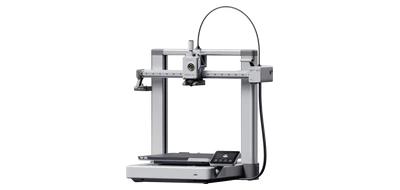
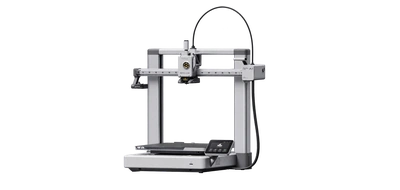
Fix enclosed background transparency in Bambu A1 artwork (#164)

Changed region(s): [[0.3, 0.0263, 0.69, 0.9737]]

diff --git a/docs/CONTROLLER_VISUAL_STYLE_GUIDE.md b/docs/CONTROLLER_VISUAL_STYLE_GUIDE.md
@@ -249,7 +249,7 @@ A standard table has **white uppercase bold headings** (`.68rem`, 800, `.04em` t
 
 **Analytics cards:** five period-filtered KPIs—job total, completed, failed, run time, and **Filament used** (recorded completed-print weight in kg). The heading and value share a vertically stacked, left-aligned **text column beside the icon**. Reflow five to three to two to one card per row as needed, allowing long headings to wrap inside their text column without truncation. The **Failed** KPI always uses a red outlined cross, including at zero failures; a favourable failure trend may still use green text, but the metric identity icon must never turn into a green check. The **Total filament used** KPI uses a dedicated 24px outline **`scale`** icon (weighing scale with top platform and dial), rendered at 27px inside a decorative purple ring; avoid spool imagery or artificial percentage progress; show `—` when completed jobs exist but no usage weight was recorded, rather than inventing zero usage. The five icon/ring identity accents are **Total print jobs blue** (`#328de2`), **Completed green** (`#20b37b`), **Failed red** (`#ef515d`), **Total run time orange** (`#d28a58`) and **Total filament used purple** (`#ab85d7`), using deeper orange `#a75b22` and purple `#8250b4` in light mode. Orange/purple identify the metric, **not** warning or performance sentiment. The matching colour also tints the decorative neutral ring and short accent; do not recolour the numeric value or previous-period arrows to match the icon. Completion and failure rings reflect real report rates; other measures use neutral/accent rings. **All five previous-period comparisons use the same directional colours:** a green **▲** and percentage for any increase and a red **▼** and percentage for any decrease, including the Failed metric; colours mean *more/less*, never *better/worse*. Zero change (`— 0.0%`) and unavailable comparisons stay muted. Compare adjacent equal-duration, same-filter periods; missing prior history displays **No previous period data**, and a prior zero baseline displays **From 0**, never an invented percentage.
 
-**Bambu A1 parity:** Use the shared Bambu Printer Details shell and all six tabs, toolhead table, AMS slot rows and external-spool controls in both Preact and fallback. Filament types and canonical colour-family choices match the other supported Bambu printers; use the same blue Set filament button and shared idle/RFID/unknown-tag disabled states. A1 uses AMS Lite help text and no chamber controls. Bundle accurate model artwork locally rather than using an A1 Mini image.
+**Bambu A1 parity:** Use the shared Bambu Printer Details shell and all six tabs, toolhead table, AMS slot rows and external-spool controls in both Preact and fallback. Filament types and canonical colour-family choices match the other supported Bambu printers; use the same blue Set filament button and shared idle/RFID/unknown-tag disabled states. A1 uses AMS Lite help text and no chamber controls. Bundle accurate model artwork locally rather than using an A1 Mini image. Background transparency must include enclosed openings inside the frame and filament-tube loop, with clean edges on both dark and light card backgrounds.
 
 **Printer tiles:** consistent headers, status pills, maintenance and reorder controls, static local model images, circular filament colour swatches overlaid only on the image area, then job progress, 2×2 metric cards (nozzle, bed, layer, remaining), connection/latency, Open printer. Printer images use `object-fit:contain`, bottom breathing room and a dedicated slot; **subgrid aligns images across one fleet row** despite wrapped names. Crucially, outer fleet rows have no inherited *internal* gaps between hidden status-strip subgrid tracks; separate whole cards with appropriate margins. Never crop the printer model just to fill the tile. Card view stays separate from dense Dashboard table view. Offline printers retain a visible reason below the Open printer button.
 

diff --git a/docs/BAMBU_A1.md b/docs/BAMBU_A1.md
@@ -20,4 +20,4 @@ Before unattended physical use, verify LAN/Developer-mode access, status and rec
 
 ## Bundled model artwork
 
-The dashboard's `public/assets/printers/a1.webp` is a resized product-identification image from Bambu's [A1 product page](https://uk.store.bambulab.com/products/a1), using the [manufacturer-hosted source image](https://store.bblcdn.eu/f1da182f80474db1b1573dc7c8651454.png). Bambu Lab retains its product artwork and trademarks. The image is bundled locally and does not require browser requests to the manufacturer.
+The dashboard's `public/assets/printers/a1.webp` is a transparent product-identification cutout, resized to the shared 400×190 canvas, from Bambu's [A1 product page](https://uk.store.bambulab.com/products/a1), using the [manufacturer-hosted source image](https://store.bblcdn.eu/f1da182f80474db1b1573dc7c8651454.png). Bambu Lab retains its product artwork and trademarks. The image is bundled locally and does not require browser requests to the manufacturer.

diff --git a/README.md b/README.md
@@ -1,4 +1,4 @@
-# Print Farm Controller v0.62.1
+# Print Farm Controller v0.62.2
 A local-first 3D printer fleet controller. It runs entirely on your LAN and currently supports:
 
 - **FlashForge Adventurer 5M / 5M Pro** through the local FlashForge HTTP/TCP APIs.
@@ -7,7 +7,7 @@ A local-first 3D printer fleet controller. It runs entirely on your LAN and curr
 - **Prusa CORE One+ (experimental)** through the local PrusaLink API, supporting Standard (1-tool), INDX4 and INDX8 configurations.
 - **Bambu Lab P1P / P1S / X1C / A1 / A1 Mini (experimental)** through the local MQTT TLS and FTPS TLS interfaces. P1P/P1S/A1/A1 Mini use the TLS/JPEG camera path; X1C camera uses the bundled FFmpeg decoder; see [X1C camera setup](docs/X1C_CAMERA.md).
 
-**Current development version: v0.62.1**
+**Current development version: v0.62.2**
 
 ## Key capabilities
 

diff --git a/PROJECT_CONTEXT.md b/PROJECT_CONTEXT.md
@@ -11,7 +11,7 @@ Repository policy: `AGENTS.md` defines agent startup behavior; `docs/DOCUMENTATI
 - Repository: `Andy-Knight/Print-Farm-Controller`
 - Project path: repository root (`/`)
 - Primary branch: `main` (current production baseline)
-- Current controller source version: **0.62.1**.
+- Current controller source version: **0.62.2**.
 - Previous baseline audited: **0.48.0** (main before the regression test audit release).
 - Runtime: **Node.js 24.22.1+** (Node 24 release line), ES modules; build-time **npm 12.2.0** and committed lockfile; no npm runtime dependency for deployed controller. Follow `docs/dependency-security.md` for updates.
 - GitHub is the authoritative code baseline.

diff --git a/CHANGELOG.md b/CHANGELOG.md
@@ -4,6 +4,10 @@ This file contains the version-by-version release history for Print Farm Control
 
 Historical entries describe the behaviour of the controller at the time of that release and may be superseded by later versions. For current installation, configuration and supported-hardware guidance, see [README.md](README.md).
 
+## v0.62.2
+
+- Correct Bambu A1 artwork transparency, including enclosed openings inside the printer frame and filament-tube loop, so dashboard images blend with dark and light themes.
+
 ## v0.62.1
 
 - Update the bundled Preact UI library to 11.0.2 and align the approved dependency-version assertion with the reviewed patch release.
